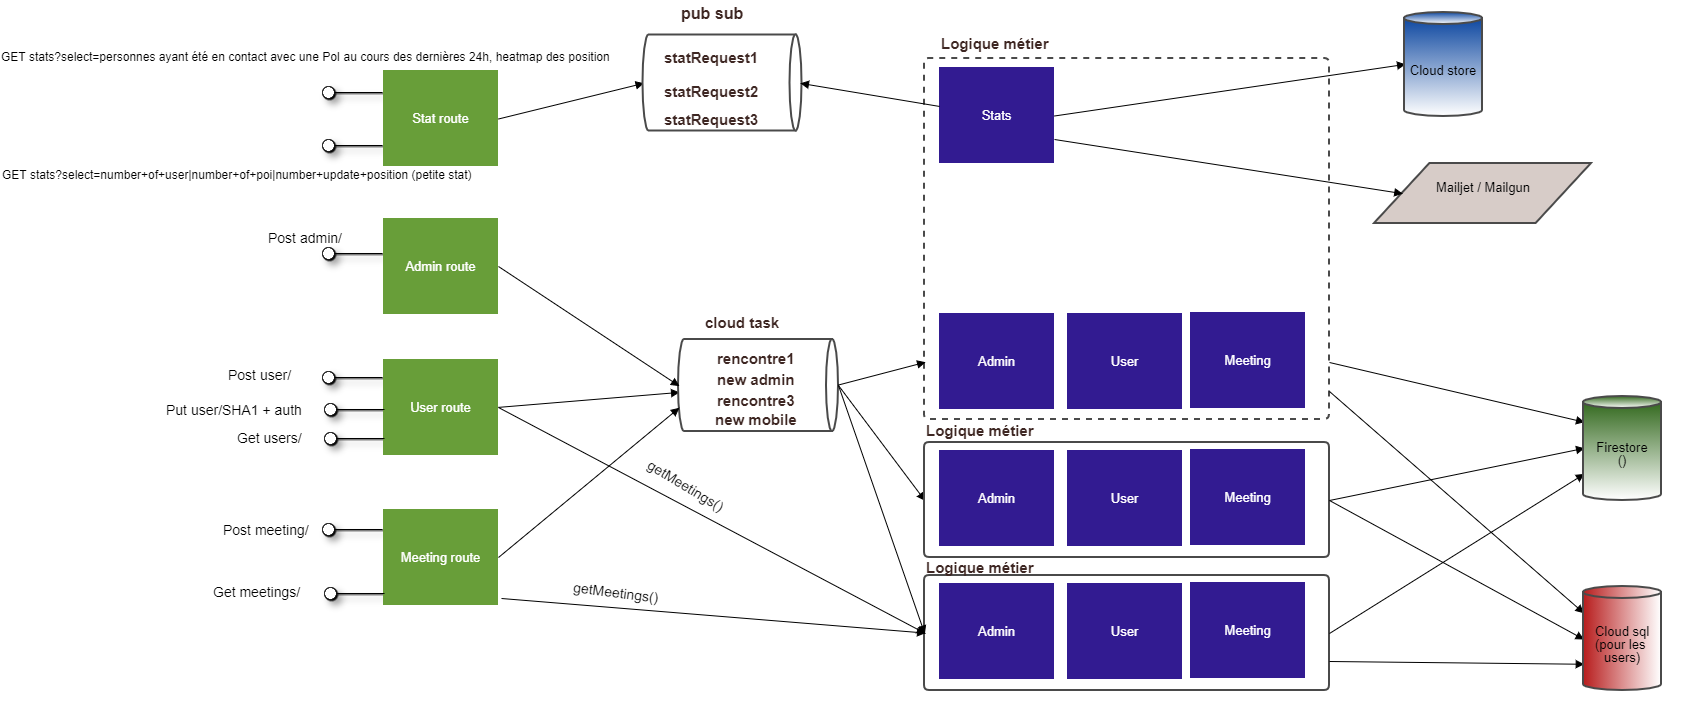
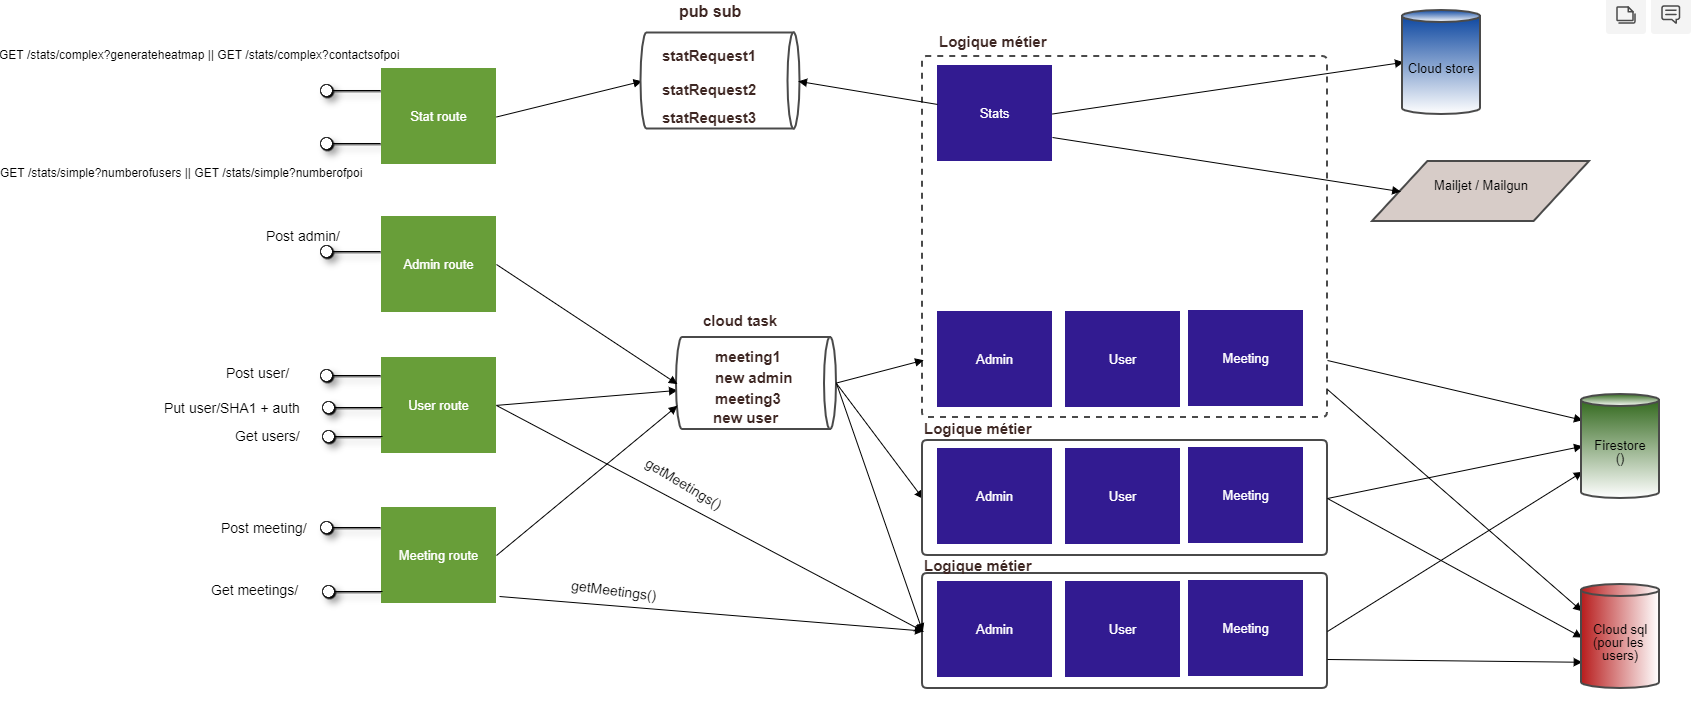
Added readme and authorizations for stats.

diff --git a/routes/statistics/index.js b/routes/statistics/index.js
@@ -5,8 +5,11 @@ var statsController = require("../../appengine/controller/StatsController.js");
 const { stats, heatmapPubSub } = require("../../middlewares/pub-sub");
 
 const { ValidationError } = require("joi");
+const { ensureIsAdmin } = require("../../middlewares/authorization");
 
-router.get("/simple", handleExceptions(async (req, res) => {
+
+
+router.get("/simple", handleExceptions(ensureIsAdmin), handleExceptions(async (req, res) => {
 	let valueToReturn;
 	if (req.query["numberofusers"] !== undefined) {
 		valueToReturn = await statsController.getNumberOfUsers();
@@ -18,21 +21,20 @@ router.get("/simple", handleExceptions(async (req, res) => {
 	res.status(200).json(valueToReturn);
 }));
 
-router.get("/complex", handleExceptions(async (req, res) => {
-	// with pubsub
+router.get("/complex", handleExceptions(ensureIsAdmin), handleExceptions(async (req, res) => {
+	const email = req.headers.authorization;
 	if (req.query["numberofpoi24hours"] !== undefined) {
-		stats.publishMessage("numberofpoi24hours");
+		stats.publishMessage(email);
 	} else if (req.query["generateheatmap"] !== undefined) {
-		heatmapPubSub.publishMessage("generateheatmap");
+		heatmapPubSub.publishMessage(email);
 	}
-	//withoutpubsub
 	else {
-		statsController.getPoiForLastDay("alexis1953@live.fr");
+		throw new ValidationError("Route must have 'numberofpoi24hours' or 'generateheatmap' as query");
 	}
 	res.status(200).json("Request received.");
 }));
 
-router.get('/heatmap', handleExceptions(async (req, res) => {
+router.get('/heatmap', handleExceptions(ensureIsAdmin), handleExceptions(async (req, res) => {
 	res.status(200).json(statsController.getMeetingsForHeatmap());
 }));
 

diff --git a/appengine/controller/StatsController.js b/appengine/controller/StatsController.js
@@ -12,18 +12,18 @@ const { logTheError } = require("../../middlewares/config/logger.js");
 
 class StatsController {
 
-    constructor() {
+    constructor () {
         this.meetingsForHeatmap = [];
 
         stats.subscribeMessage((message) => {
-            this.getPoiForLastDay(process.env.EMAIL_SENDER); // TODO change mail address
+            this.getPoiForLastDay(message); // TODO change mail address
             message.ack();
         }, (error) => {
             logTheError(error)
         });
 
         heatmapPubSub.subscribeMessage((message) => {
-            this.generateHeatmap(process.env.EMAIL_SENDER); // TODO change mail address
+            this.generateHeatmap(message); // TODO change mail address
             message.ack();
         }, (error) => {
             logTheError(error);

diff --git a/README.md b/README.md
@@ -1,6 +1,51 @@
 # sacc-team-A
 
-Welcome to Sacc Team A Project
+Welcome to Sacc Team A Project.
+
+## Delivery information (in french)
+
+> /!\ La livraison est prévue pour mercredi. Nous vous remercions d'attendre un peu si le projet n'est toujours pas prêt :(
+
+Les requêtes Postman à exécuter se trouvent dans le dossier `./postman`. Il faut les importer dans Postman.
+
+### Précisions sur les statistiques
+
+Il existe des statistiques simples et des statistiques complexes.
+
+#### Statistiques simples
+
+Les statistiques simples sont faciles à calculer et le résultat est renvoyé directement dans le corps de la réponse HTTP.
+Il existe deux types statistiques simples :
+
+- Le nombre d'utilisateurs
+- Le nombre de personnes d'intérêt
+
+#### Statistiques complexes
+
+Les statistiques complexes prennent du temps à être calculées. La requête REST renvoie donc un "OK" à leur appel mais le résultat est différé et est généré dans un fichier.
+Il existe deux types de statistiques complexes :
+
+- La liste des personnes d'intérêt et leurs contacts sur les dernières 24 heures. Un fichier est généré à la fin du calcul et le lien est envoyé par email à l'administrateur.
+- La génération d'une heatmap montrant les personnes ayant été en contact avec une autre personne (donc les points de rencontre). Une fois la heatmap générée, le lien est envoyé par email à l'administrateur (https://sacc-team-a.ew.r.appspot.com/heatmap).
+
+> DANS LE CAS OU L'EMAIL N'EST PAS RECU :
+>
+> - Pour la liste des personnes d'intérêts et de leurs contacts, vous pouvez récupérer le lien du fichier (ainsi que de tous les fichiers créés) dans les journaux d'activité ou dans le Stockage (et voir le bucket) de AppEngine.
+> - Pour la heatmap, elle est visualissable ici après génération : https://sacc-team-a.ew.r.appspot.com/heatmap
+
+Comme ces calculs peuvent prendre du temps et qu'ils sont fait très peu souvents, nous pouvons nous permettre de faire attendre un peu plus l'utilisateur (en utilisant un PubSub qui permet au serveur de récupérer la requête dès qu'il le souhaite).
+
+vide bdd
+met admins
+mettre 200 users
+200 meetings
+20 PoI
+GET stats simples
+GET stats compliquées
+
+## Architecture
+
+![Architecture](/assets/architecture.png)
 
 ## Project
 
@@ -110,7 +155,3 @@ Create a topic
 
 Create a subscription
 `gcloud pubsub subscriptions create <YOUR_SUBSCRIPTION_NAME>`
-
-## Architecture
-
-![Architecture](/ressources/architecture.png)
